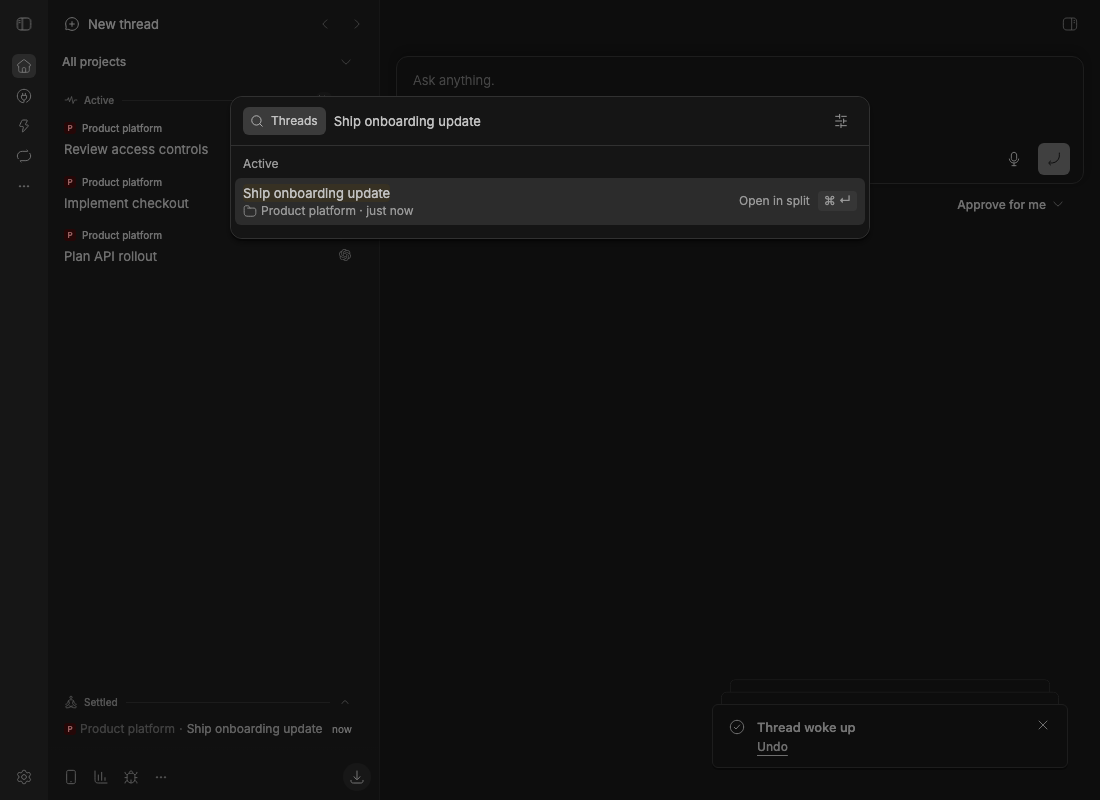
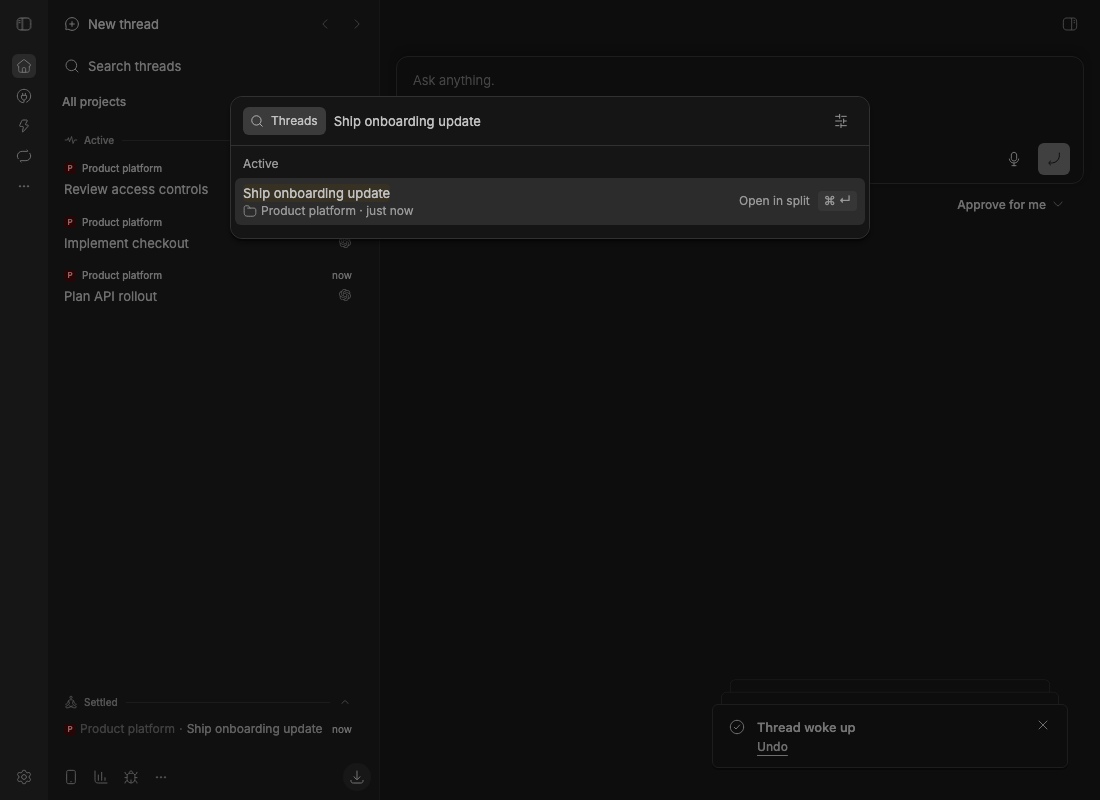
docs: replace flashing demo and verify the current BB interface

Changed region(s): [[0.0618, 0.125, 0.1855, 0.375], [0.0618, 0.0625, 0.1545, 0.0938], [0.3091, 0.3438, 0.34, 0.375]]

diff --git a/README.md b/README.md
@@ -25,17 +25,19 @@ The GIF records actual interactions in BB 0.50.1 with disposable demo data: **Se
 
 Filing never archives or deletes a conversation, stops a runtime, or closes a terminal. Running work reported by BB, unanswered questions, queues, pins, and live children protect threads from automatic settling. Reading alone does not settle a thread; new activity can return filed work.
 
-Search, project and thread creation, notifications, and retries use BB's native controls. **Cmd/Ctrl+K** finds threads, including settled conversations. Use **Project picker > New project** to create a project.
+Search, project and thread creation, notifications, and retries use BB's native controls. Click **Search threads** at the top of the inbox, or use **Cmd/Ctrl+K**, to find threads, including settled conversations. The button works even if native Search is hidden in BB's navigation. Use **Project picker > New project** to create a project.
 
 ## Installation
 
-Requires **BB 0.49.0 or newer**. The release badge above reflects published GitHub Releases. A development package version does not mean a release has been published.
+Requires **BB 0.49.0 or newer**. The release badge above reflects published GitHub Releases.
 
 <details open>
-<summary><b>Install the development preview</b></summary>
+<summary><b>Install v0.1.0</b></summary>
+
+Use this command once `v0.1.0` appears in [Releases](https://github.com/ysskrishna/bb-thread-inbox/releases).
 
 ```sh
-bb plugin install git:github.com/ysskrishna/bb-thread-inbox@main
+bb plugin install git:github.com/ysskrishna/bb-thread-inbox@v0.1.0
 bb settings ui set sidebar.threadListProvider bb-sidebar-clean/inbox
 ```
 
@@ -44,12 +46,10 @@ Disable other sidebar plugins before trying this one so their background policie
 </details>
 
 <details>
-<summary><b>Install a published release</b></summary>
-
-After the first release is published, select a tag from [Releases](https://github.com/ysskrishna/bb-thread-inbox/releases) and replace `vX.Y.Z` below with that exact tag:
+<summary><b>Track development</b></summary>
 
 ```sh
-bb plugin install git:github.com/ysskrishna/bb-thread-inbox@vX.Y.Z
+bb plugin install git:github.com/ysskrishna/bb-thread-inbox@main
 bb settings ui set sidebar.threadListProvider bb-sidebar-clean/inbox
 ```
 
@@ -93,7 +93,7 @@ Choose a shortcut or a date and time. **Wake** returns a snoozed thread immediat
 <details>
 <summary><b>Search includes settled work</b></summary>
 
-BB's native search opens a filed conversation directly.
+Click **Search threads** in the sidebar. BB's native search opens a filed conversation directly.
 
 ![BB's thread search finding a conversation still visible in Settled](docs/screenshots/native-search.png)
 
@@ -104,7 +104,9 @@ BB's native search opens a filed conversation directly.
 
 Open **Settings > Thread Inbox**. Defaults are seven days of inactivity, merged-PR settling on, and PR inactivity protection off. **Keep threads with a PR** exempts known PR threads from inactivity; merge and close rules still apply. Unknown PR state keeps the thread in place. Rules run when the sidebar opens and every five minutes on the server.
 
-![Thread Inbox preferences for inactivity and pull-request settling](docs/screenshots/auto-settle-settings.png)
+![Thread Inbox preferences in dark mode](docs/screenshots/settings-dark.png)
+
+![Thread Inbox preferences in light mode](docs/screenshots/settings-light.png)
 
 </details>
 

diff --git a/docs/screenshots/README.md b/docs/screenshots/README.md
@@ -1,19 +1,22 @@
 # Screenshot and recording provenance
 
 These assets are browser captures of Thread Inbox running inside a real,
-disposable BB 0.50.1 instance on macOS. The plugin is the development code in this
-PR, version `0.1.0-dev.0`. Data is a seeded Product platform project and four
+disposable BB 0.50.1 instance on macOS. The plugin is release preparation code
+with manifest version `0.1.0`. Data is a seeded Product platform project and four
 fixed-title conversations. No real user conversations are published.
 
 - `thread-inbox-demo.gif`: continuous Playwright screen recording converted to
-  GIF at five frames per second, scaled to 900 px wide with initial loading trimmed. It shows the full browser viewport in dark mode,
-  including Settle, Un-settle, Snooze, Wake, and native search. It is not an
+  GIF at ten frames per second, scaled to 900 px wide with initial loading
+  trimmed. It shows the full browser viewport in dark mode,
+  including Settle, Un-settle, Snooze, Wake, and clicking Search threads.
+  Screenshots run separately from recording; readiness timing trims startup
+  frames. It is not an
   AI-generated animation or a reconstructed interface.
 - `sidebar-*`, `actions-*`, `settled-threads`, `snooze-options`, and
   `snoozed-threads`: screenshots cropped to the actual plugin sidebar element.
   They omit BB's surrounding navigation and thread pane. Sidebar widths are
   280 or 320 px; they are not screenshots of the entire desktop application.
-- `native-search.png` and `auto-settle-settings.png`: full browser screenshots
+- `native-search.png`, `auto-settle-settings.png`, and `settings-*`: full browser screenshots
   of native search and the plugin's settings page.
 - `marketplace-overview.png`: a clearly separate composite joining four real
   sidebar screenshots horizontally. It meets the registry's 1,200 px minimum
@@ -22,8 +25,8 @@ fixed-title conversations. No real user conversations are published.
 Fresh preferences, fixed browser dimensions, demo titles, light/dark themes,
 and reduced-motion settings make these reproducible. The live desktop can
 look different because of its width, theme, saved settings, and thread states.
-The settings capture shows PR inactivity protection enabled as part of its
-persistence check; the shipped default is disabled.
+The auto-settle persistence capture shows PR inactivity protection enabled;
+the settings-light/dark captures show the shipped default, disabled.
 
 Regenerate using the [browser media instructions](../../e2e/README.md#readme-media).
 Use a disposable copy of the installed app for desktop-version comparisons.

diff --git a/e2e/README.md b/e2e/README.md
@@ -178,9 +178,10 @@ fixed workflow titles. It uses the same real BB server and assertions as the
 core flows, not mocked browser responses:
 
 ```sh
-env -i PATH="$PATH" HOME="$HOME" npm run e2e -- --readme-demo --grep 'core sidebar|README demo'
-ffmpeg -y -ss 2 -i e2e-artifacts/demo/walkthrough.webm \
-  -vf 'fps=5,scale=900:-1:flags=lanczos,split[s0][s1];[s0]palettegen=max_colors=96[p];[s1][p]paletteuse=dither=bayer:bayer_scale=5:diff_mode=rectangle' \
+env -i PATH="$PATH" HOME="$HOME" npm run e2e -- --readme-demo --grep 'core sidebar|README demo|README gallery'
+demo_trim=$(node -p 'JSON.parse(require("node:fs").readFileSync("e2e-artifacts/demo/timing.json", "utf8")).trimStartSeconds')
+ffmpeg -y -ss "$demo_trim" -i e2e-artifacts/demo/walkthrough.webm \
+  -vf 'fps=10,scale=900:-1:flags=lanczos,split[s0][s1];[s0]palettegen=max_colors=128[p];[s1][p]paletteuse=dither=bayer:bayer_scale=5:diff_mode=rectangle' \
   -loop 0 docs/screenshots/thread-inbox-demo.gif
 ffmpeg -y -i docs/screenshots/sidebar-light-320.png \
   -i docs/screenshots/actions-dark-320.png -i docs/screenshots/settled-threads.png \
@@ -190,9 +191,10 @@ ffmpeg -y -i docs/screenshots/sidebar-light-320.png \
 
 FFmpeg is only a documentation capture tool; it is not a plugin dependency.
 The GIF comes from the continuous Playwright video of Settle, Un-settle, Snooze,
-Wake, and Search, sampled at five frames per second. The example trims two seconds of initial
-loading; inspect each new recording and adjust that trim before
-committing. Raw video/frames stay in ignored `e2e-artifacts/demo/`; only the
+Wake, and Search, sampled at ten frames per second. The timing file trims startup
+after the real sidebar is ready. Screenshot capture runs in a separate test to
+avoid altering the video surface. Watch the entire encoded GIF and its loop,
+inspect suspicious frames, and reject flashes or layout jumps before committing. Raw video/frames stay in ignored `e2e-artifacts/demo/`; only the
 finished GIF and current PNGs are published.
 The marketplace composite joins four actual sidebar captures to meet the
 registry's minimum width without stretching the interface.

diff --git a/AGENTS.md b/AGENTS.md
@@ -17,7 +17,8 @@ Legacy Parked rows retain Resume. Normal controls do not create Parked rows.
 
 ## Architecture
 
-- Browser entry: `app.tsx`. Server entry: `src/server.ts`. No host entry is needed. Keep browser, Node, and shared modules separate;
+- Browser entry: `app.tsx`. Server entry: `src/server.ts`. No host entry is needed.
+  Keep browser, Node, and shared modules separate;
   `biome.json` and `scripts/check-import-boundaries.mjs` enforce the boundaries.
 - Experimental app SDK hooks go through `src/bb-sdk.ts`.
 - Use BB's status resolver for display through `src/working-tree.ts` and
@@ -76,7 +77,8 @@ Legacy Parked rows retain Resume. Normal controls do not create Parked rows.
 ## Tag-based releases
 
 - A package version is manifest metadata, not proof of publication. Keep unreleased
-  work on the planned stable X.Y.Z version and the README release badge tied to GitHub Releases.
+  work on the planned stable X.Y.Z version and tie the README release badge
+  to GitHub Releases.
   Only stable vX.Y.Z tags are supported; do not introduce version suffixes.
 - Prepare a release on a branch: `npm version X.Y.Z --no-git-tag-version`, put
   the shipped notes under a nonempty `## [X.Y.Z]` section in `CHANGELOG.md`, and

diff --git a/SECURITY.md b/SECURITY.md
@@ -2,8 +2,8 @@
 
 ## Supported versions
 
-Security fixes target the latest published stable release and `main`. Older releases and
-unmerged branches are not maintained separately.
+Security fixes target the latest published stable release and `main`. Older
+releases and unmerged branches are not maintained separately.
 
 ## Report a vulnerability
 
